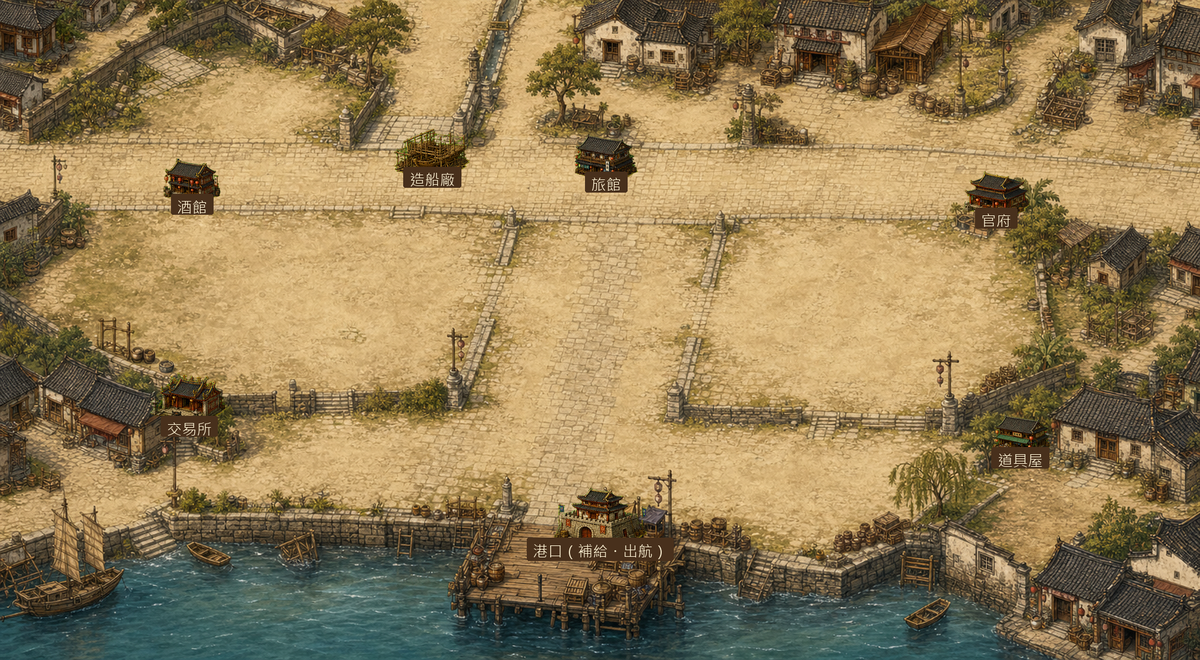
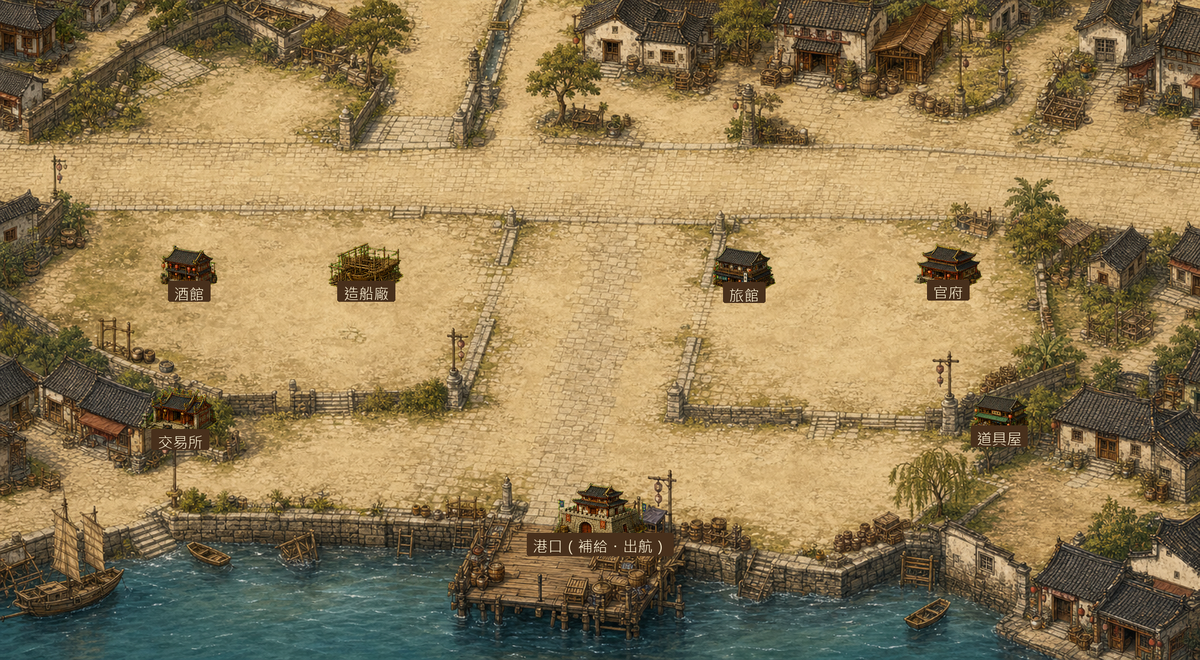
修正: 試接安海港町底圖並校正設施位置

diff --git a/src/scenes/PortScene.ts b/src/scenes/PortScene.ts
@@ -1,6 +1,6 @@
 import Phaser from 'phaser';
 import { GameState, PORTS, Port, cargoCount, cargoMax, saveGame, dateText } from '../state';
-import { characterWalkKey, harborSceneKey, portBuildingKey, portTownBuildingKey, shipWorldKey } from '../art';
+import { characterWalkKey, harborSceneKey, portBuildingKey, portTownBackgroundKey, portTownBuildingKey, shipWorldKey } from '../art';
 import { audio, townBgmForRegion } from '../audio';
 import { COLORS, textStyle, makeButton, showModal } from '../ui';
 
@@ -112,6 +112,16 @@ const BUILDING_SIZE: Record<FacilityKey, { w: number; h: number }> = {
   shipyard: { w: 240, h: 130 },
 };
 
+const ANHAI_TOWN_LAYOUT: Array<{ key: FacilityKey | 'harbor'; label: string; x: number; y: number; w: number; h: number }> = [
+  { key: 'tavern', label: '酒館', x: 315, y: 430, w: 200, h: 130 },
+  { key: 'shipyard', label: '造船廠', x: 610, y: 430, w: 240, h: 130 },
+  { key: 'inn', label: '旅館', x: 1240, y: 430, w: 210, h: 135 },
+  { key: 'office', label: '官府', x: 1580, y: 430, w: 210, h: 125 },
+  { key: 'trade', label: '交易所', x: 300, y: 672, w: 230, h: 140 },
+  { key: 'item', label: '道具屋', x: 1665, y: 674, w: 200, h: 125 },
+  { key: 'harbor', label: '港口（補給・出航）', x: TOWN_W / 2, y: 842, w: 280, h: 150 },
+];
+
 export default class PortScene extends Phaser.Scene {
   private port!: Port;
   private player!: Phaser.GameObjects.Sprite;
@@ -145,11 +155,14 @@ export default class PortScene extends Phaser.Scene {
     audio.playBgm(townBgmForRegion(this.port.region));
     const style = CULTURE_STYLE[this.port.culture] ?? CULTURE_STYLE.han;
 
-    this.createTownBase(style);
-    this.addHarborBackdrop(style);
+    const townBackground = this.addTownBackground();
     this.buildings = this.createTownBuildings();
-    this.createRoads(style);
-    this.createDock(style);
+    if (!townBackground) {
+      this.createTownBase(style);
+      this.addHarborBackdrop(style);
+      this.createRoads(style);
+      this.createDock(style);
+    }
     const shipKey = this.m5Texture(shipWorldKey(this.state.ship.typeId), 'ship');
     const dockShip = this.add.image(this.dock.x + 230, TOWN_H - 38, shipKey);
     if (shipKey === 'ship') dockShip.setScale(1.5);
@@ -157,8 +170,8 @@ export default class PortScene extends Phaser.Scene {
 
     this.createBuildings(style);
 
-    // 裝飾：民宅、樹、水井、貨箱（豐富城景）
-    this.addDecorations(style);
+    // 裝飾：民宅、樹、水井、貨箱（豐富城景）；高精緻底圖已內建場景物件。
+    if (!townBackground) this.addDecorations(style);
 
     // 主角與鏡頭
     const start = this.spawn ?? { x: this.dock.x, y: TOWN_H - 130 };
@@ -184,12 +197,12 @@ export default class PortScene extends Phaser.Scene {
         (b) => wx > b.x - b.w / 2 && wx < b.x + b.w / 2 && wy > b.y - b.h / 2 - 26 && wy < b.y + b.h / 2
       );
       if (hit) {
-        this.moveTarget = { x: hit.x, y: hit.y + hit.h / 2 + 22 };
+        this.moveTarget = { x: hit.x, y: Phaser.Math.Clamp(hit.y + hit.h / 2 + 22, 96, this.townWalkMaxY()) };
         this.autoEnterKey = hit.key;
       } else {
         this.moveTarget = {
           x: Phaser.Math.Clamp(wx, 16, TOWN_W - 16),
-          y: Phaser.Math.Clamp(wy, 96, SHORE_WALK_LIMIT),
+          y: Phaser.Math.Clamp(wy, 96, this.townWalkMaxY()),
         };
         this.autoEnterKey = null;
       }
@@ -237,6 +250,23 @@ export default class PortScene extends Phaser.Scene {
     showModal(this, title, body, [
       { label: firstTime ? '開始探索！' : '知道了', onPick: () => { this.input.keyboard!.enabled = true; } },
     ]);
+  }
+
+  private addTownBackground(): boolean {
+    const key = this.townBackgroundTextureKey();
+    if (!key) return false;
+    this.add.image(TOWN_W / 2, TOWN_H / 2, key).setDisplaySize(TOWN_W, TOWN_H).setDepth(0);
+    return true;
+  }
+
+  private townBackgroundTextureKey(): string | null {
+    if (this.port.id !== 'anhai') return null;
+    const key = portTownBackgroundKey('anhai-town-bg-v1');
+    return this.textures.exists(key) ? key : null;
+  }
+
+  private townWalkMaxY(): number {
+    return this.port.id === 'anhai' ? TOWN_H - 150 : SHORE_WALK_LIMIT;
   }
 
   private createTownBase(style: TownStyle): void {
@@ -447,6 +477,16 @@ export default class PortScene extends Phaser.Scene {
   }
 
   private createTownBuildings(): Building[] {
+    if (this.port.id === 'anhai') {
+      return ANHAI_TOWN_LAYOUT
+        .filter((entry) => entry.key !== 'shipyard' || this.port.shipyard)
+        .map((entry) => ({
+          ...entry,
+          artId: this.buildingArtFor(entry.key),
+          townArtId: this.townBuildingArtFor(entry.key),
+        }));
+    }
+
     const buildings: Building[] = [
       // 港口擺在碼頭正中央、玩家入港的落腳處：補給與出航都在這裡，最直覺
       { key: 'harbor', label: '港口（補給・出航）', artId: this.buildingArtFor('harbor'), townArtId: this.townBuildingArtFor('harbor'), x: TOWN_W / 2, y: TOWN_H - 250, w: 280, h: 150 },
@@ -642,7 +682,7 @@ export default class PortScene extends Phaser.Scene {
   /** 回傳是否實際移動（撞牆回 false） */
   private movePlayer(nx: number, ny: number, dt: number): boolean {
     const px = Phaser.Math.Clamp(this.player.x + nx * PLAYER_SPEED * dt, 16, TOWN_W - 16);
-    const py = Phaser.Math.Clamp(this.player.y + ny * PLAYER_SPEED * dt, 96, SHORE_WALK_LIMIT);
+    const py = Phaser.Math.Clamp(this.player.y + ny * PLAYER_SPEED * dt, 96, this.townWalkMaxY());
     if (this.hitsBuilding(px, py)) return false;
     this.player.setPosition(px, py);
     this.updatePlayerWalkFrame(nx, ny);

diff --git a/src/art.ts b/src/art.ts
@@ -6,6 +6,7 @@
 // - 船卡／船隻裝備：key = 船型 id／裝備 id
 // - 主角行走圖：key = 主角 id（lin、peter、chiyo），7 格 spritesheet
 // - M5-2 世界／港町素材：key = 檔名（full_map_v2、sea_chart、han_item_shop、han_trade、unknown_exploration…）
+// - 港町高精緻底圖：key = 檔名（anhai-town-bg-v1…）
 // - 劇情背景：key = 檔名（lin_story_bg、peter_story_bg、chiyo_story_bg）
 // - 圖鑑插圖：key = 圖鑑 entry id（codex_lin_1_0、sp_swinhoe_frog…）
 
@@ -61,6 +62,10 @@ export const PORT_TOWN_BUILDING_URLS = byBaseName(
   import.meta.glob('/assets/m5/v2/m5-2/ports/town-buildings/*.png', { eager: true, query: '?url', import: 'default' }) as Record<string, string>
 );
 
+export const PORT_TOWN_BACKGROUND_URLS = byBaseName(
+  import.meta.glob('/assets/m5/v2/m5-2/ports/town-backgrounds/*-town-bg-v1.png', { eager: true, query: '?url', import: 'default' }) as Record<string, string>
+);
+
 export const HARBOR_SCENE_URLS = byBaseName(
   import.meta.glob('/assets/m5/v2/m5-2/ports/harbors/*.png', { eager: true, query: '?url', import: 'default' }) as Record<string, string>
 );
@@ -91,6 +96,7 @@ export const shipEquipmentKey = (id: string): string => `shipeq_${id}`;
 export const worldArtKey = (id: string): string => `m5w_${id}`;
 export const portBuildingKey = (id: string): string => `m5b_${id}`;
 export const portTownBuildingKey = (id: string): string => `m5tb_${id}`;
+export const portTownBackgroundKey = (id: string): string => `m5town_${id}`;
 export const harborSceneKey = (id: string): string => `m5h_${id}`;
 export const explorationIconKey = (id: string): string => `m5x_${id}`;
 export const facilityIconKey = (id: string): string => `m5u_${id}`;

diff --git a/src/scenes/BootScene.ts b/src/scenes/BootScene.ts
@@ -2,9 +2,9 @@ import Phaser from 'phaser';
 import {
   PORTRAIT_URLS, SHIP_WORLD_URLS, SHIP_WORLD_DIRECTIONAL_URLS, SHIP_BATTLE_URLS,
   SHIP_CARD_URLS, CHARACTER_WALK_URLS, SHIP_EQUIPMENT_URLS,
-  WORLD_ART_URLS, PORT_BUILDING_URLS, PORT_TOWN_BUILDING_URLS, HARBOR_SCENE_URLS, EXPLORATION_ICON_URLS, FACILITY_ICON_URLS, STORY_BACKGROUND_URLS, CODEX_ILLUSTRATION_URLS,
+  WORLD_ART_URLS, PORT_BUILDING_URLS, PORT_TOWN_BUILDING_URLS, PORT_TOWN_BACKGROUND_URLS, HARBOR_SCENE_URLS, EXPLORATION_ICON_URLS, FACILITY_ICON_URLS, STORY_BACKGROUND_URLS, CODEX_ILLUSTRATION_URLS,
   portraitKey, shipWorldKey, shipWorldDirectionalKey, shipBattleKey, shipCardKey, characterWalkKey, shipEquipmentKey,
-  worldArtKey, portBuildingKey, portTownBuildingKey, harborSceneKey, explorationIconKey, facilityIconKey, storyBackgroundKey, codexIllustrationKey,
+  worldArtKey, portBuildingKey, portTownBuildingKey, portTownBackgroundKey, harborSceneKey, explorationIconKey, facilityIconKey, storyBackgroundKey, codexIllustrationKey,
 } from '../art';
 
 /** 程式產生基礎貼圖；M5 起載入 V2 美術素材，缺圖時仍保留 fallback */
@@ -25,6 +25,7 @@ export default class BootScene extends Phaser.Scene {
     for (const [id, url] of Object.entries(WORLD_ART_URLS)) this.load.image(worldArtKey(id), url);
     for (const [id, url] of Object.entries(PORT_BUILDING_URLS)) this.load.image(portBuildingKey(id), url);
     for (const [id, url] of Object.entries(PORT_TOWN_BUILDING_URLS)) this.load.image(portTownBuildingKey(id), url);
+    for (const [id, url] of Object.entries(PORT_TOWN_BACKGROUND_URLS)) this.load.image(portTownBackgroundKey(id), url);
     for (const [id, url] of Object.entries(HARBOR_SCENE_URLS)) this.load.image(harborSceneKey(id), url);
     for (const [id, url] of Object.entries(EXPLORATION_ICON_URLS)) this.load.image(explorationIconKey(id), url);
     for (const [id, url] of Object.entries(FACILITY_ICON_URLS)) this.load.image(facilityIconKey(id), url);

diff --git a/tools/build-m5-2-5-town-background-prototype.py b/tools/build-m5-2-5-town-background-prototype.py
@@ -44,21 +44,17 @@ def would_overlap(key: str, slot: dict[str, int], buildings: list[dict]) -> bool
     return any(abs(slot['x'] - b['x']) < (size['w'] + b['w']) / 2 + 24 and abs(slot['y'] - b['y']) < (size['h'] + b['h']) / 2 + 48 for b in buildings)
 
 def anhai_buildings() -> list[dict]:
-    seed = hash_port_id('anhai')
-    buildings = [{'key': 'harbor', 'label': HARBOR_LABEL, 'townArtId': 'han_harbor', 'x': TOWN_W // 2, 'y': TOWN_H - 250, **BUILDING_SIZE['harbor']}]
-    item_slot = ITEM_SLOTS[seed % len(ITEM_SLOTS)]
-    used = {slot_key(item_slot)}
-    def add(key: str, label: str, slot: dict[str, int]) -> None:
-        buildings.append({'key': key, 'label': label, 'townArtId': f'han_{key}', 'x': slot['x'], 'y': slot['y'], **BUILDING_SIZE[key]})
-        used.add(slot_key(slot))
-    add('item', ITEM_LABEL, item_slot)
-    slots = sorted(FACILITY_SLOTS, key=lambda s: slot_score(s, seed))
-    for key, label in LABELS:
-        for candidate in slots:
-            if slot_key(candidate) not in used and not would_overlap(key, candidate, buildings):
-                add(key, label, candidate)
-                break
-    return buildings
+    # Keep this in sync with ANHAI_TOWN_LAYOUT in src/scenes/PortScene.ts.
+    layout = [
+        {'key': 'tavern', 'label': '\u9152\u9928', 'townArtId': 'han_tavern', 'x': 315, 'y': 430, **BUILDING_SIZE['tavern']},
+        {'key': 'shipyard', 'label': '\u9020\u8239\u5ee0', 'townArtId': 'han_shipyard', 'x': 610, 'y': 430, **BUILDING_SIZE['shipyard']},
+        {'key': 'inn', 'label': '\u65c5\u9928', 'townArtId': 'han_inn', 'x': 1240, 'y': 430, **BUILDING_SIZE['inn']},
+        {'key': 'office', 'label': '\u5b98\u5e9c', 'townArtId': 'han_office', 'x': 1580, 'y': 430, **BUILDING_SIZE['office']},
+        {'key': 'trade', 'label': '\u4ea4\u6613\u6240', 'townArtId': 'han_trade', 'x': 300, 'y': 672, **BUILDING_SIZE['trade']},
+        {'key': 'item', 'label': '\u9053\u5177\u5c4b', 'townArtId': 'han_item', 'x': 1665, 'y': 674, **BUILDING_SIZE['item']},
+        {'key': 'harbor', 'label': HARBOR_LABEL, 'townArtId': 'han_harbor', 'x': TOWN_W // 2, 'y': 842, **BUILDING_SIZE['harbor']},
+    ]
+    return layout
 
 def fit_background() -> Image.Image:
     src = Image.open(SOURCE).convert('RGB')
@@ -116,9 +112,9 @@ manifest = {
     'size': {'w': TOWN_W, 'h': TOWN_H},
     'buildingsPreviewed': anhai_buildings(),
     'notes': [
-        'Prototype image2.0 high-detail town background for Anhai only; not wired into PortScene yet.',
+        'Prototype image2.0 high-detail town background for Anhai; wired into PortScene for Anhai-only runtime trial.',
         'Background intentionally excludes UI text and facility labels so existing cutout buildings and interaction labels can remain data-driven.',
-        'If approved, next step is adding a town background loading key and a per-port/per-culture background map.'
+        'Next step after visual approval: generalize this into per-port/per-culture town background layout data.'
     ],
 }
 MANIFEST.write_text(json.dumps(manifest, ensure_ascii=False, indent=2), encoding='utf-8')

diff --git a/log.md b/log.md
@@ -7,6 +7,28 @@
 
 ---
 
+## [2026-06-23] 修正 | 操作者：Codex | 校正安海設施到空地位置
+
+- 背景：老闆截圖指出安海高精緻港町融合感不錯，但多數設施仍壓在石板街道上，應移到空地，並要求務必做視覺辨識確認。
+- 完成事項：
+  - 調整 `ANHAI_TOWN_LAYOUT`：酒館、造船廠、旅館、官府從上方橫向石板街下移到前方空地；交易所與道具屋微調到下方空地；港口維持碼頭位置。
+  - 同步更新 `tools/build-m5-2-5-town-background-prototype.py` 與 `m5-2-5-town-backgrounds.json`，避免 preview 與實際程式座標不一致。
+  - 重產 `anhai-town-bg-v1-preview.png` 與 `anhai-town-bg-v1-preview-review.png`。
+- 視覺確認：已用重產後的 review 圖檢查，設施已離開橫向石板街，旅館／官府避開中間縱向主街，主要設施落在空地上。
+- 驗證：`npx tsc --noEmit` 通過；`npm run build` 通過（僅既有 chunk size warning）。
+
+## [2026-06-23] 開發 | 操作者：Codex | 試接安海港町高精緻底圖
+
+- 背景：老闆初步接受安海 image2.0 高精緻港町底圖方向，要求先接入遊戲並調整設施位置迎合底圖。
+- 完成事項：
+  - `src/art.ts`／`BootScene` 新增港町高精緻底圖載入管線，材質 key 為 `m5town_`。
+  - `PortScene` 先只對安海啟用 `anhai-town-bg-v1.png`，其他城市仍維持既有程序化港町，避免一次影響所有港口。
+  - 安海設施改為固定 layout：酒館、造船廠、旅館、官府、交易所、道具屋、港口各自貼合底圖道路與廣場位置。
+  - 高精緻底圖啟用時跳過舊地面、道路、港景卡、裝飾物繪製，降低舊風格與 image2.0 底圖互相疊加的突兀感。
+  - 補上安海專用走路下緣限制，避免人物沿用舊港町底線走入底部海面。
+  - `tools/build-m5-2-5-town-background-prototype.py` 同步成與程式相同的安海固定 layout，供後續重產 review 圖。
+- 驗證：`npm run build` 通過（僅既有 chunk size warning）；安海走路下緣小改後 `npx tsc --noEmit` 通過。瀏覽器工具因本機安全政策拒絕開啟 `localhost:5173`，Python preview 重產也被 sandbox／用量限制阻擋，因此本輪未完成實機截圖驗證。
+
 ## [2026-06-23] 開發 | 操作者：Codex | 建立安海港町高精緻底圖試驗素材
 
 - 背景：老闆確認建築 cutout 方向後，要求下一步把城町地圖也改成 image2.0 高精緻畫面，先以中國安海作試驗。

diff --git a/status.md b/status.md
@@ -3,7 +3,7 @@ title: sea_game 專案作戰盤
 type: status
 tags: [sea_game, 作戰盤, 里程碑]
 created: 2026-06-12
-updated: 2026-06-22
+updated: 2026-06-23
 author: Codex
 status: draft
 ---
@@ -17,7 +17,7 @@ status: draft
 
 ## 目前階段
 
-**M4＋等級系統＋M5-0 船隻裝備完成（2026-06-17）；M5 美術階段已啟動，V2 精緻 2D 手繪航海 RPG 風格已定調為全遊戲正式美術方向；M5-1 載入管線、M5-2 世界／港口／探索素材、M5-3 角色與船隻素材已完成第一輪接入，世界地圖船隻方向幀已接入，劇情對話背景已接入 StoryScene；M5-2.5 港町場景整體化 Phase B/C 已導入 PortScene，M5-2.6 世界地圖整體化 Phase C/D 已導入與驗收，正式圖改為 image2.0 風格母版＋map.json 座標生成，港口與海岸已重新對齊；M5-4 圖鑑插圖已接入 InfoScene。**
+**M4＋等級系統＋M5-0 船隻裝備完成（2026-06-17）；M5 美術階段已啟動，V2 精緻 2D 手繪航海 RPG 風格已定調為全遊戲正式美術方向；M5-1 載入管線、M5-2 世界／港口／探索素材、M5-3 角色與船隻素材已完成第一輪接入，世界地圖船隻方向幀已接入，劇情對話背景已接入 StoryScene；M5-2.5 港町場景整體化 Phase B/C 已導入 PortScene，Phase D 已先以安海單港接入高精緻底圖試驗並調整設施位置，M5-2.6 世界地圖整體化 Phase C/D 已導入與驗收，正式圖改為 image2.0 風格母版＋map.json 座標生成，港口與海岸已重新對齊；M5-4 圖鑑插圖已接入 InfoScene。**
 
 ---
 
@@ -30,7 +30,7 @@ status: draft
 | M2 世界完成 | 全 22 港、24 貿易品（含圖示）、行情、走動式港町＋全設施、補給、海上事件、季風、羅盤＋小地圖、鏡頭跟隨 | 自由貿易玩法完整可玩 | ✅ 完成（2026-06-12，已實測，待老闆試玩） |
 | M3 船與戰鬥 | 8 船型、購買/建造/改造、艦隊（5 艘編隊）、回合制海戰、委託任務、裝備系統、夥伴職位框架 | 可組艦隊、改造船、裝備、打海戰 | ✅ 完成（2026-06-13，已實測，待老闆試玩） |
 | M4 主線劇情 | 三主人翁主線（各 8～10 章）＋歷史 NPC＋25 位夥伴 NPC 專屬任務＋圖鑑 | 三條主線可玩到結局，各線可招募夥伴齊備 | ✅ 完成（2026-06-17，三線各 10 章可通關、25 夥伴招募＋12 高星劇情、客座離隊、120 圖鑑＋收集稱號、三分流平衡；已自動驗收，待老闆試玩） |
-| M5 美術音樂整合 | 全素材到位、分區 BGM、UI 美化、新手教學 | 觀感接近「仿大航海2」目標 | 🟨 進行中（M5-1／M5-2／M5-3 第一輪接入完成，世界地圖船隻方向幀與劇情背景已接入；M5-2.5 Phase B/C 已導入；M5-2.6 Phase C/D 已導入與驗收，世界地圖改為 image2.0 風格母版＋map.json 座標生成並重新對齊港口；M5-4 圖鑑插圖已接 UI） |
+| M5 美術音樂整合 | 全素材到位、分區 BGM、UI 美化、新手教學 | 觀感接近「仿大航海2」目標 | 🟨 進行中（M5-1／M5-2／M5-3 第一輪接入完成，世界地圖船隻方向幀與劇情背景已接入；M5-2.5 Phase B/C 已導入，Phase D 安海單港高精緻底圖試接完成；M5-2.6 Phase C/D 已導入與驗收，世界地圖改為 image2.0 風格母版＋map.json 座標生成並重新對齊港口；M5-4 圖鑑插圖已接 UI） |
 | M6 打包與測試 | Electron 打包、平衡調整、校對、試玩回饋修正 | 老闆拿到 Windows 安裝檔，安裝即玩 | ⬜ 未開始 |
 
 ---
@@ -144,7 +144,7 @@ status: draft
   - [x] 架構文件建立（2026-06-20）：新增 `2026-06-20_港町整體美術一致化架構.md`，定義場景分層、素材規格、資料檔、PortScene 拆分與分階段導入。
   - [x] Phase B 快速視覺止血（2026-06-21）：`PortScene` 已導入舊紙／石板質感地面、手繪道路、整合式港景、碼頭水面與較精緻的民宅／樹／水井／貨箱；設施牌匾改到建築下緣，降低卡片浮貼感；2026-06-21 二次修正設施圖裁到卡片邊框、港町底色貼近設施羊皮紙色、道路分支連到各設施門口，並限制玩家不可走進底部海面。
   - [x] Phase C 正式 cutout 建築（2026-06-23／二次修正）：新增 `assets/m5/v2/m5-2/source/m5-2-5-town-buildings-cutout-source.png`，改用 image2.0 綠幕 source 偵測完整建築外框後去背，重新輸出 `assets/m5/v2/m5-2/ports/town-buildings/` 35 張透明 cutout；`art.ts`／`BootScene`／`PortScene` 已優先使用 `m5tb_` cutout；現有 building card 保留給圖鑑或 fallback，不再作港町 cutout 來源。
-  - [x] Phase D 前置試驗素材（2026-06-23）：新增安海單港 image2.0 高精緻城町底圖 `assets/m5/v2/m5-2/ports/town-backgrounds/anhai-town-bg-v1.png` 與設施疊圖 preview，先供老闆確認整體風格；尚未接入 `PortScene`，確認後再做 per-port/per-culture 背景載入與熱區資料化。
+  - [x] Phase D 安海單港接入試驗（2026-06-23）：`PortScene` 已載入 `anhai-town-bg-v1.png` 作為安海專用高精緻底圖，跳過舊程序化底板／道路／裝飾；2026-06-23 依老闆截圖二次校正設施座標，酒館／造船廠／旅館／官府移離石板街並落到前方空地，交易所／道具屋微調到下方空地；同步補安海走路下緣，避免人物走進底部海面。已重產 preview/review 圖並完成視覺檢查。
   - [ ] Phase D layout 與熱區資料化：新增 `portTownThemes.json`、`portTownLayouts.json`，把 hitbox、door、labelAnchor 從場景硬編碼抽出。
   - [ ] Phase E 驗收：至少檢查漢式、日本、琉球、南洋、歐式港町各一座。
 - [x] **M5-3 角色與船隻**：三主角＋夥伴對話頭像／立繪（放進 StoryScene 對話框上方預留區）、港町行走圖、船隻 sprite（航行＋海戰）、船隻裝備外觀。